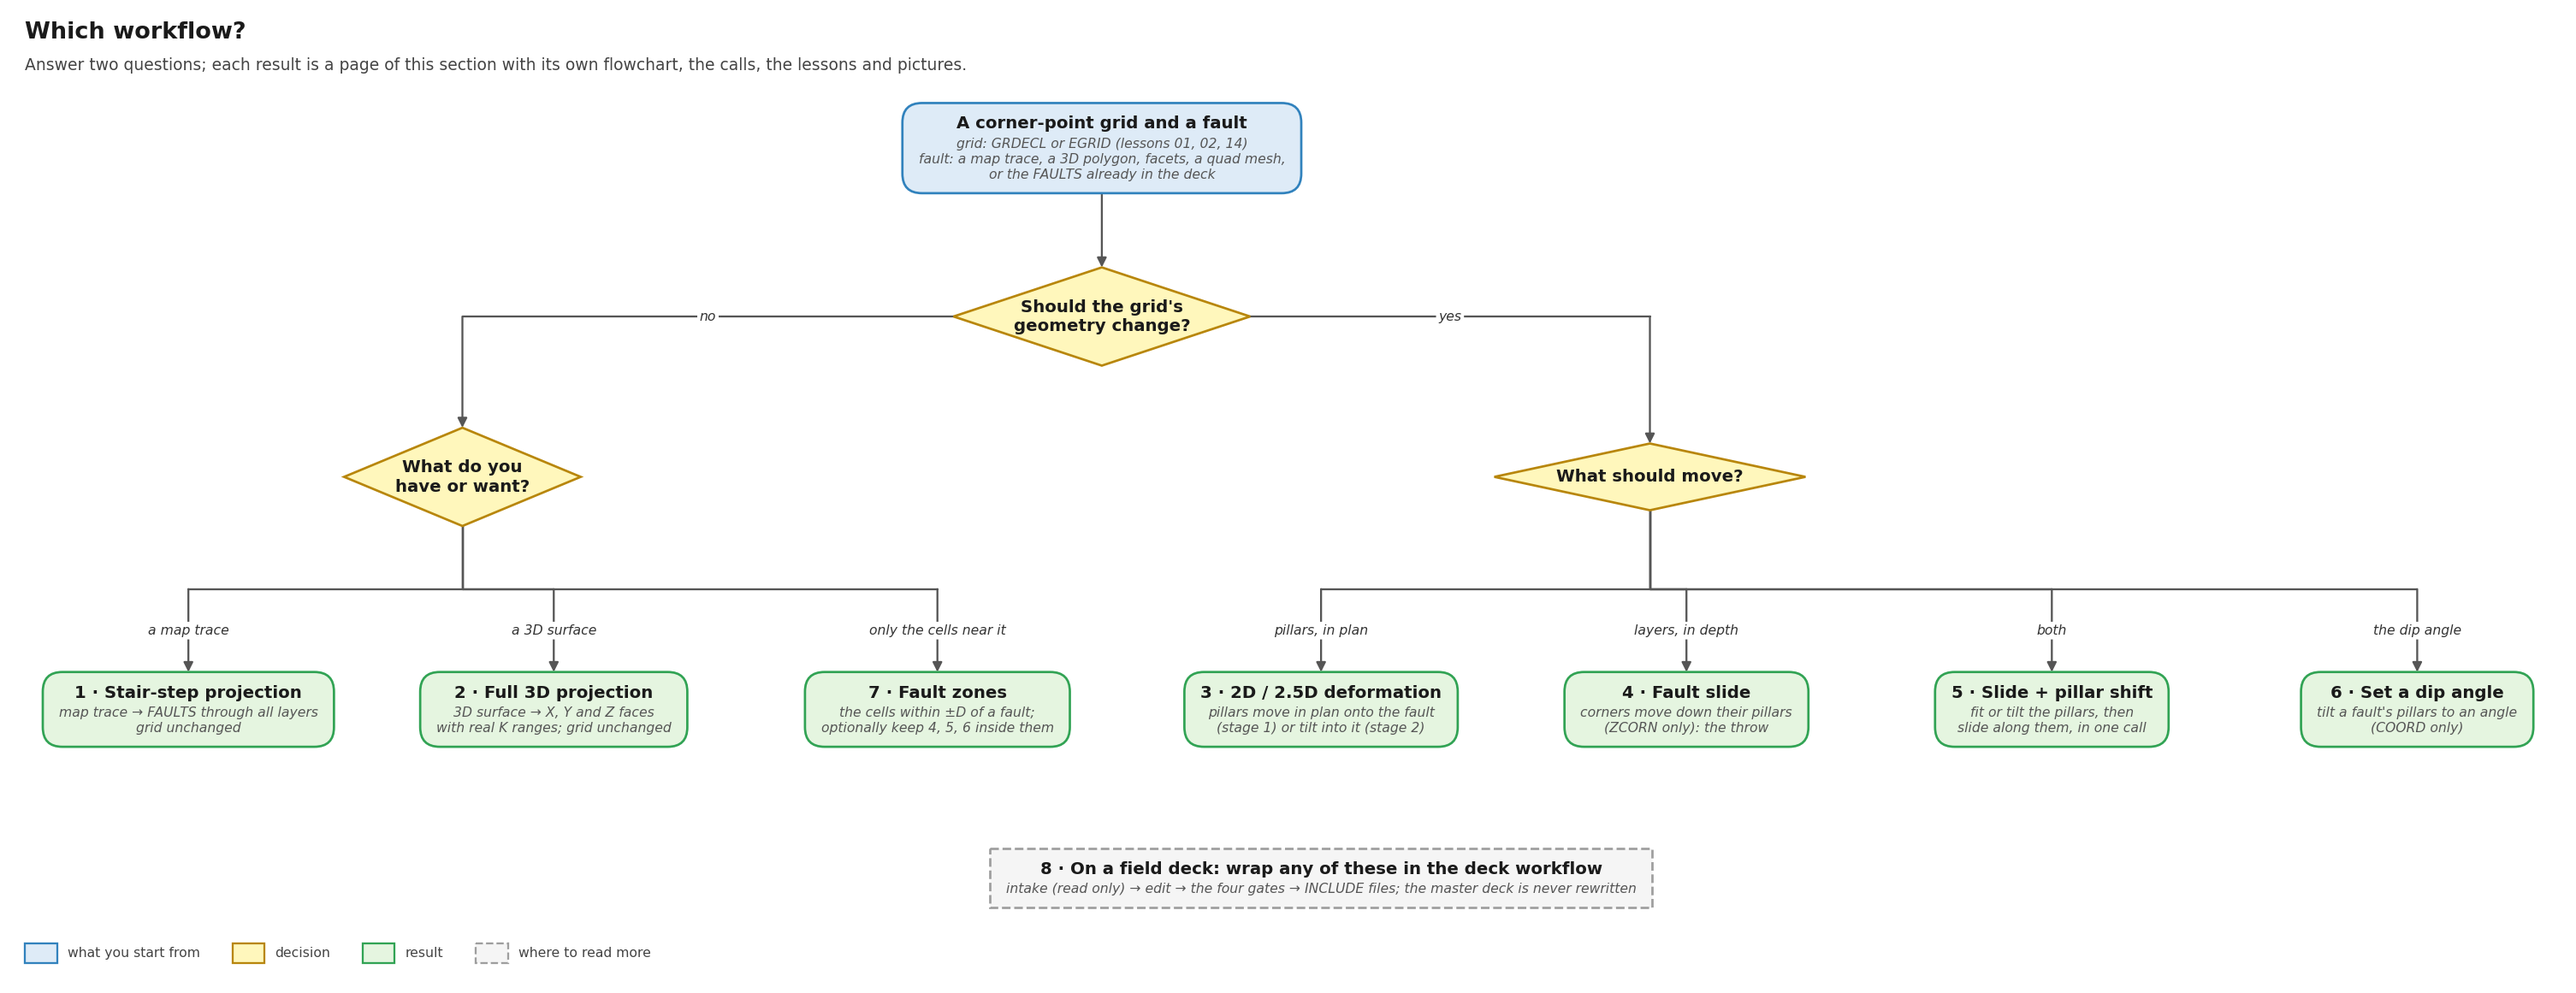
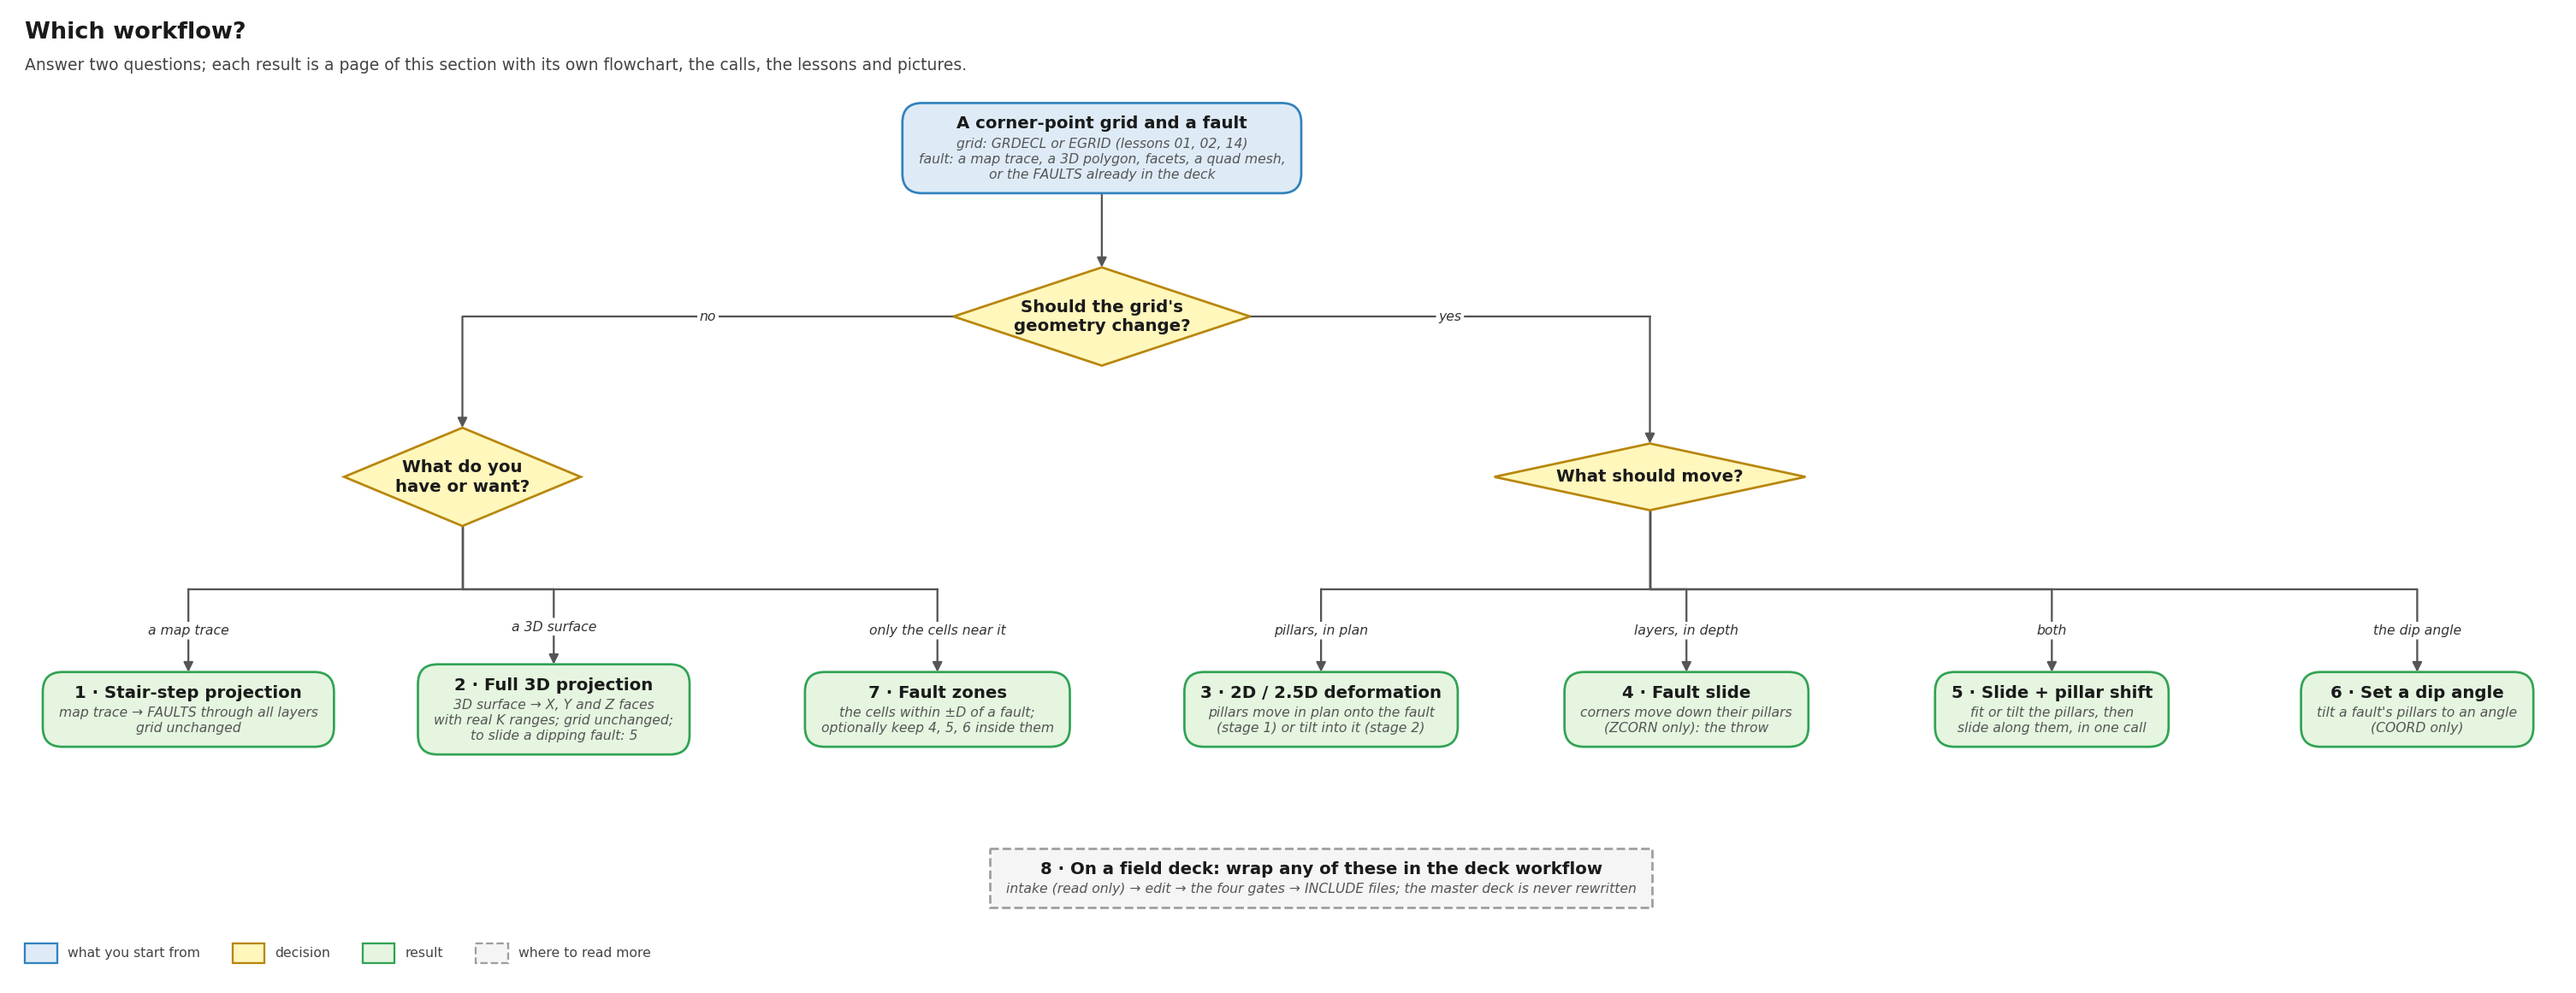
docs(workflows): a full-3D staircase cannot be slid; route to workflow 5
A dipping fault projected in 3D is a staircase of X faces on several
pillar lines plus Z steps. A slide moves corners along their pillars and
takes column faces over one K range, so slide_deck drops the Z faces,
sees parallel lines and raises SlideError. The way to slide it is to
move the pillars onto the fault first: adapt_grid(top_trace='auto') or
dip_grid(slide=...) (workflow 5).

- full-3d.md: new section with the measured case (48 X + 16 Z faces;
  SlideError; route A 45.1 deg / 15.0 m; route B 45.0 deg / 15.0 m),
  vertical (slides, K range -> layers) and horizontal (refused) cases
- new computed figure ill-2-slide-limit.png; chooser and flow-2 notes
- limits.md, workflow index, slide.md, slide-pillars.md, README links

Changed region(s): [[0.1561, 0.6202, 0.281, 0.7752]]

diff --git a/tools/figures/workflows.py b/tools/figures/workflows.py
@@ -18,6 +18,7 @@ import sys
 import warnings
 from dataclasses import dataclass
 from pathlib import Path
+from tempfile import TemporaryDirectory
 
 import numpy as np
 
@@ -227,7 +228,8 @@ def chooser(out):
         B("w1", "end", 0.0, 3.5, "1 · Stair-step projection",
           ref="map trace → FAULTS through all layers\ngrid unchanged"),
         B("w2", "end", 1.0, 3.5, "2 · Full 3D projection",
-          ref="3D surface → X, Y and Z faces\nwith real K ranges; grid unchanged"),
+          ref="3D surface → X, Y and Z faces\nwith real K ranges; grid unchanged;\n"
+              "to slide a dipping fault: 5"),
         B("w7", "end", 2.05, 3.5, "7 · Fault zones",
           ref="the cells within ±D of a fault;\noptionally keep 4, 5, 6 inside them"),
         B("w3", "end", 3.1, 3.5, "3 · 2D / 2.5D deformation",
@@ -313,8 +315,9 @@ def flow_2(out):
         B("o", "end", 1.0, 5.1, "3D FAULTS",
           "write_faults_3d(path, {\"F1\": surface}, mesh)", "faults_text_3d returns the text"),
         B("n", "check", 2.55, 4.6, "The grid is unchanged",
-          ref="a dipping fault is a staircase in depth too;\nto make cells follow it, use "
-              "workflow 3 (stage 2)\nor 6 (dip angle)"),
+          ref="a dipping fault is a staircase in depth too.\nTo make cells follow it: "
+              "workflow 3 (stage 2)\nor 6 (dip angle). The staircase cannot be slid\n"
+              "(SlideError); to slide the fault: workflow 5"),
     ]
     edges = [E("g", "d"), E("d", "a", "planar", via=2.05), E("d", "b", "curved", via=2.05),
              E("d", "c", "a mesh", via=2.05),
@@ -690,9 +693,12 @@ def save(fig, path, title):
 
 def compute():
     """Run every case once; the per-workflow figures and the overview draw from this."""
-    from cpg2unstructured import build_topology, check_validity, from_grdecl, pillar_lattice
-    from fault_projections import (Dip, Throw, adapt_grid, dip_grid, fault_faces_for,
-                                   fault_zone, project_fault_surface, slide_grid)
+    from cpg2unstructured import (build_topology, check_validity, from_grdecl, pillar_lattice,
+                                  write_grid_include)
+    from fault_projections import (Dip, SlideError, Throw, adapt_grid, dip_grid,
+                                   fault_faces_for, fault_zone, faults_text_3d,
+                                   project_fault_surface, slide_deck, slide_grid)
+    from fault_projections.from_faults import faults_from_deck
 
     grid = cake()
     r = {"grid": grid}
@@ -718,6 +724,47 @@ def compute():
     flat = fault_faces_for(grid, [np.array([[x_top, -10.0], [x_top, NY * DX + 10]])])
     r.update(plane3d=((xa, TOP - 5), (xb, TOP + 95)), surf=surf, flat=flat,
              surf_counts=np.bincount(surf.direction, minlength=3))
+    # 2, the limit: a 3D staircase cannot be slid; dip the pillars, then slide (workflow 6)
+    with warnings.catch_warnings():
+        warnings.simplefilter("ignore")
+        d45 = dip_grid(grid, Dip(x_fault(8), 45.0, hanging_side=EAST, name="F"),
+                       slide=Throw(x_fault(8), 15.0, hanging_side=EAST, name="F"))
+    assert d45.ok and d45.slide is not None and d45.slide.ok
+    x0, _, z0, x1, _, z1 = np.asarray(d45.grid.coord, float).reshape(NY + 1, NX + 1, 6)[ROW, 8]
+    ext = 5.0 / (z1 - z0)                                # reach 5 m past the top and base
+    xa45, za45 = x0 - ext * (x1 - x0), z0 - 5.0
+    xb45, zb45 = x1 + ext * (x1 - x0), z1 + 5.0
+    poly45 = np.array([[xa45, -10.0, za45], [xa45, NY * DX + 10, za45],
+                       [xb45, NY * DX + 10, zb45], [xb45, -10.0, zb45]])
+    surf45 = project_fault_surface(poly45, mesh)
+    with TemporaryDirectory() as tmp:
+        deck = Path(tmp) / "deck.grdecl"
+        write_grid_include(grid, deck, header="workflows: full 3D, then slide")
+        with open(deck, "a") as fh:
+            fh.write("\n" + faults_text_3d({"F": surf45}, mesh))
+        seen = sorted({f.i for f in faults_from_deck(deck)["F"]})
+        try:
+            with warnings.catch_warnings():
+                warnings.simplefilter("ignore")
+                slide_deck(deck, Throw("F", 15.0, hanging_side=EAST), Path(tmp) / "out")
+            refused = None
+        except SlideError as exc:
+            refused = str(exc)
+    assert refused is not None and len(seen) > 1
+    poly45a = np.array([[xa45, -2000.0, za45], [xa45, 2000.0, za45], [xb45, 2000.0, zb45],
+                        [xb45, -2000.0, zb45]])
+    a45 = adapt_grid(grid, poly45a, top_trace="auto", boundary="slide", w0=0.05,
+                     polish="barrier", on_invalid="raise")
+    with warnings.catch_warnings():
+        warnings.simplefilter("ignore")
+        a45s = slide_grid(a45.grid, Throw(a45.faults_after, 15.0, hanging_side=EAST, name="F"))
+    assert a45.ok and a45s.ok and not a45s.unexpected
+    r.update(plane45=((xa45, za45), (xb45, zb45)), surf45=surf45, dip45=d45,
+             surf45_counts=np.bincount(surf45.direction, minlength=3), seen45=seen,
+             refused45=refused, throw45=float(np.nanmedian(d45.slide.realized_throw("F")[:, 1])),
+             adapt45=a45, adapt45_slid=a45s,
+             adapt45_lines=sorted({f.i for f in a45.faults_after if f.face == "X"}),
+             adapt45_throw=float(np.nanmedian(a45s.realized_throw("F")[:, 1])))
     # 3 stage 2: an interior dipping plane, top x = 300, base x = 380
     poly2 = np.array([[300.0, 40.0, TOP - 5], [300.0, 360.0, TOP - 5],
                       [380.0, 360.0, TOP + 95], [380.0, 40.0, TOP + 95]])
@@ -799,6 +846,29 @@ def illustrations(out, r):
             "the staircase follows the dip", faces3d=r["surf"], plane=r["plane3d"])
     save(fig, out / "ill-2-full-3d.png", "2 · Full 3D projection: the grid is unchanged, "
          "only the chosen faces differ")
+    # 2, the limit: staircase vs dip + slide
+    fig, axs = plt.subplots(4, 1, figsize=(9.0, 10.0), layout="constrained")
+    n = r["surf45_counts"]
+    section(axs[0], g, f"3D projection of a 45 deg plane (dashed): {n[0]} X + {n[2]} Z faces; "
+            "the grid is unchanged", faces3d=r["surf45"], plane=r["plane45"])
+    seen = r["seen45"]
+    section(axs[1], g, f"slide_deck on that FAULTS: Z faces dropped, the X faces become "
+            f"{len(seen)} full-height lines\n(i = {', '.join(map(str, seen))}): SlideError, "
+            "no grid written", pillars=seen, plane=r["plane45"])
+    axs[1].text(0.985, 0.08, "REFUSED", transform=axs[1].transAxes, ha="right",
+                fontsize=13, weight="bold", color=RED,
+                bbox=dict(boxstyle="round,pad=0.25", fc="white", ec=RED, lw=1.2))
+    lines, a45s = r["adapt45_lines"], r["adapt45_slid"]
+    section(axs[2], a45s.grid, f"workflow 5 A: adapt_grid(polygon, top_trace=\"auto\") + "
+            f"slide_grid(Throw 15):\nthe pillars fitted to the plane "
+            f"({angle_of(a45s.grid, lines[0]):.1f} deg), throw {r['adapt45_throw']:.1f} m",
+            pillars=lines, plane=r["plane45"])
+    d45 = r["dip45"]
+    section(axs[3], d45.slide.grid, f"workflow 5 B / 6: dip_grid(Dip 45, slide=Throw 15): "
+            f"{angle_of(d45.slide.grid):.1f} deg, throw {r['throw45']:.1f} m,\nthe hanging "
+            "wall slides along the tilted pillars", pillars=[8], plane=r["plane45"])
+    save(fig, out / "ill-2-slide-limit.png", "2 · Limit: a 3D staircase cannot be slid; "
+         "move the pillars onto the fault, then slide")
     # 3 deformation
     fig = plt.figure(figsize=(12.5, 5.5), layout="constrained")
     gs = fig.add_gridspec(2, 2, height_ratios=[3.2, 1.45])

diff --git a/docs/workflows/full-3d.md b/docs/workflows/full-3d.md
@@ -48,6 +48,59 @@ layer, at x = 300 m all the way down. Projecting the surface gives
 the staircase follows the dip. The grid is the same in all three
 panels.
 
+## Can I slide it afterwards? Not the staircase
+
+A full 3D projection only marks faces, and the faces of a dipping
+fault cannot be slid. A slide moves cell corners only up and down
+their own pillars (`ZCORN`). It takes a fault as whole column faces,
+`FaultFace(i, j, "X" | "Y")` over one K range. A dipping staircase
+crosses the pillars instead:
+
+- its Z steps (a layer's top or base) have no pillar to slide along;
+- its X faces sit on several pillar lines, one per depth step.
+
+`slide_deck` on the 3D `FAULTS` drops the Z faces, sees the X faces
+as parallel full-height lines, and refuses with `SlideError`. It
+writes nothing.
+
+To slide a dipping fault, first move the pillars onto it, then slide
+along them ([workflow 5](slide-pillars.md)):
+
+- **A.** fit the pillars to the same polygon:
+  `adapt_grid(grid, polygon, top_trace="auto")`, then `slide_grid`;
+- **B.** tilt a vertical fault to the angle:
+  `dip_grid(grid, Dip(faces, 45.0, ...), slide=Throw(...))`
+  ([workflow 6](dip-angle.md)).
+
+![A 45 degree staircase is refused by the slide; workflow 5 A and B slide the same fault along moved pillars](../assets/workflows/ill-2-slide-limit.png)
+
+Measured on the same grid, with a 45° plane through x = 350 m at the
+top and x = 450 m at the base:
+
+| | Result |
+| --- | --- |
+| 3D projection | 48 X + 16 Z faces; the grid is unchanged |
+| `slide_deck(deck, Throw("F", 15.0, ...))` | the X faces become 3 lines (i = 7, 8, 9); `SlideError: F: a slid fault must be one branch-free chain` |
+| A: `adapt_grid(top_trace="auto")` + `slide_grid` | pillar line 7 fitted to the plane, 45.1°; throw 15.0 m; 0 unexpected faces |
+| B: `dip_grid(Dip 45, slide=Throw 15)` | 45.0°; throw 15.0 m |
+
+Two cases differ:
+
+- **A vertical fault** projected in 3D has X and Y faces only, so it
+  can be slid. If its `FAULTS` cut only some layers, `slide_deck`
+  uses that K range as `Throw.layers` ([workflow 4](slide.md)).
+  Measured with a 10 m throw: a vertical plane through all layers
+  slides 10.0 m at the top and the base; one through layers 1–3
+  slides 10.0 m at the top and 0 at the base.
+- **A horizontal fault** (Z faces only) cannot be slid or dipped:
+  both refuse it with an error. Pillars run unbroken from top to
+  base, so a corner-point grid cannot offset cells across a
+  horizontal surface. Its 3D `FAULTS` still mark the faces for flow.
+
+Shallow dips run out of room: with the default fixed outline, 15° is
+refused where 30° passes
+([lesson 32 O](../learn/fault-dip-stress.md#o-shallow-angles-and-the-fixed-outline)).
+
 ## Run the lessons
 
 | Lesson | What it shows | Run | Read |
@@ -68,6 +121,10 @@ Method page: [Surface projection](../functions/surface-projection.md).
 - The grid is unchanged: a dipping fault is a staircase in depth.
   To make the cells follow it, tilt the pillars: stage 2 of
   [workflow 3](deformation.md), or [workflow 6](dip-angle.md).
+- The staircase of a dipping fault cannot be slid (`SlideError`). To
+  slide the fault, move the pillars onto it first
+  ([above](#can-i-slide-it-afterwards-not-the-staircase),
+  [workflow 5](slide-pillars.md)).
 - Independently projected quads can tear at a seam; a `QuadMesh`
   with shared vertices avoids it
   ([Surface projection](../functions/surface-projection.md#project_quad_mesh_surface)).

diff --git a/README.md b/README.md
@@ -34,7 +34,7 @@ the grid before and after, and links to the lessons and sections to read.
 | # | Workflow | Changes | Use it when |
 | --- | --- | --- | --- |
 | 1 | [Stair-step projection](docs/workflows/stair-step.md) | `FAULTS` only | the grid must not move; the fault follows cell edges |
-| 2 | [Full 3D projection](docs/workflows/full-3d.md) | `FAULTS` (X, Y, Z faces) | a dipping surface onto 3D cell faces, with real K ranges |
+| 2 | [Full 3D projection](docs/workflows/full-3d.md) | `FAULTS` (X, Y, Z faces) | a dipping surface onto 3D cell faces, with real K ranges; marks faces only, so to slide a dipping fault use 5 ([why](docs/workflows/full-3d.md#can-i-slide-it-afterwards-not-the-staircase)) |
 | 3 | [2D / 2.5D deformation](docs/workflows/deformation.md) | `COORD` | the grid should follow a trace, or tilt into a dipping plane |
 | 4 | [Fault slide](docs/workflows/slide.md) | `ZCORN` | offset the layers across existing `FAULTS` |
 | 5 | [Slide + pillar shift](docs/workflows/slide-pillars.md) | `COORD` + `ZCORN` | a dip-slip: move the pillars, then slide along them |

diff --git a/docs/workflows/index.md b/docs/workflows/index.md
@@ -15,7 +15,7 @@ what should move?
 | # | Workflow | Changes | Use it when | Lessons |
 | --- | --- | --- | --- | --- |
 | 1 | [Stair-step projection](stair-step.md) | FAULTS only | you have a map trace and the grid must not move | 03, 04, 28 |
-| 2 | [Full 3D projection](full-3d.md) | FAULTS only (X, Y and Z faces) | you have a 3D surface: a polygon, facets or a quad mesh | 05, 13, 25 |
+| 2 | [Full 3D projection](full-3d.md) | FAULTS only (X, Y and Z faces) | you have a 3D surface: a polygon, facets or a quad mesh (to slide a dipping one, use 5) | 05, 13, 25 |
 | 3 | [2D / 2.5D deformation](deformation.md) | COORD (+ regenerated FAULTS) | the grid should follow the fault: in plan, or tilted into it | 06–12, 16, 30 C |
 | 4 | [Fault slide](slide.md) | ZCORN only | the layers should be offset across a fault (the throw) | 19–22, 23–29 |
 | 5 | [Slide + pillar shift](slide-pillars.md) | COORD, then ZCORN | the pillars should move and the layers slide along them | 21 B, 30 A, 30 C, 31 I |

diff --git a/docs/reference/limits.md b/docs/reference/limits.md
@@ -10,6 +10,14 @@
   adapts the grid only and **does not output regenerated FAULTS**.
 - **3D input:** dipping polygons/facets produce independent top/bottom
   targets, but `adapt_grid` does not regenerate FAULTS for them.
+- **Sliding a 3D projection:** the staircase that `project_fault_surface`
+  gives a dipping fault cannot be slid. A slide moves corners along their
+  pillars and takes column faces over one K range; `slide_deck` drops the
+  Z steps, sees parallel lines and raises `SlideError`. Move the pillars
+  onto the fault first (`adapt_grid(top_trace="auto")` or `dip_grid`, then
+  slide: workflow 5). A vertical fault projected in 3D slides (its K range
+  becomes `Throw.layers`). A horizontal fault (Z faces only) can be neither
+  slid nor dipped: pillars cannot be offset across it.
 - **Near-flat cells:** validity alone allows a low scaled Jacobian;
   add a project-specific floor and inspect both planes.
 - **Deck semantics:** generating an INCLUDE does not rewrite or

diff --git a/docs/workflows/slide.md b/docs/workflows/slide.md
@@ -92,7 +92,9 @@ Method page: [Fault slides](../functions/fault-slide.md).
 
 - A slide moves corners along their pillars. It does not move
   pillars, so a vertical fault stays vertical. To slide along a
-  dipping fault, tilt it first ([workflow 5](slide-pillars.md)).
+  dipping fault, tilt it first ([workflow 5](slide-pillars.md)). The
+  3D staircase of a dipping fault from [workflow 2](full-3d.md) is
+  refused (`SlideError`).
 - `hanging_side=None` reads the side from the pillar dip, so a
   vertical fault needs it.
 - The faces that open are the `FAULTS` faces; a face opening anywhere

diff --git a/docs/workflows/slide-pillars.md b/docs/workflows/slide-pillars.md
@@ -11,6 +11,10 @@ There are two ways to move the pillars:
 Either way the slide runs **after** the pillars move, in the same
 call.
 
+Have a dipping surface from [workflow 2](full-3d.md)? Its 3D
+staircase cannot be slid; route A takes the same polygon
+([why](full-3d.md#can-i-slide-it-afterwards-not-the-staircase)).
+
 ![Workflow 5: slide plus pillar shift, fit or tilt the pillars, then slide along them](../assets/workflows/flow-5-slide-pillars.png)
 
 ## Steps
